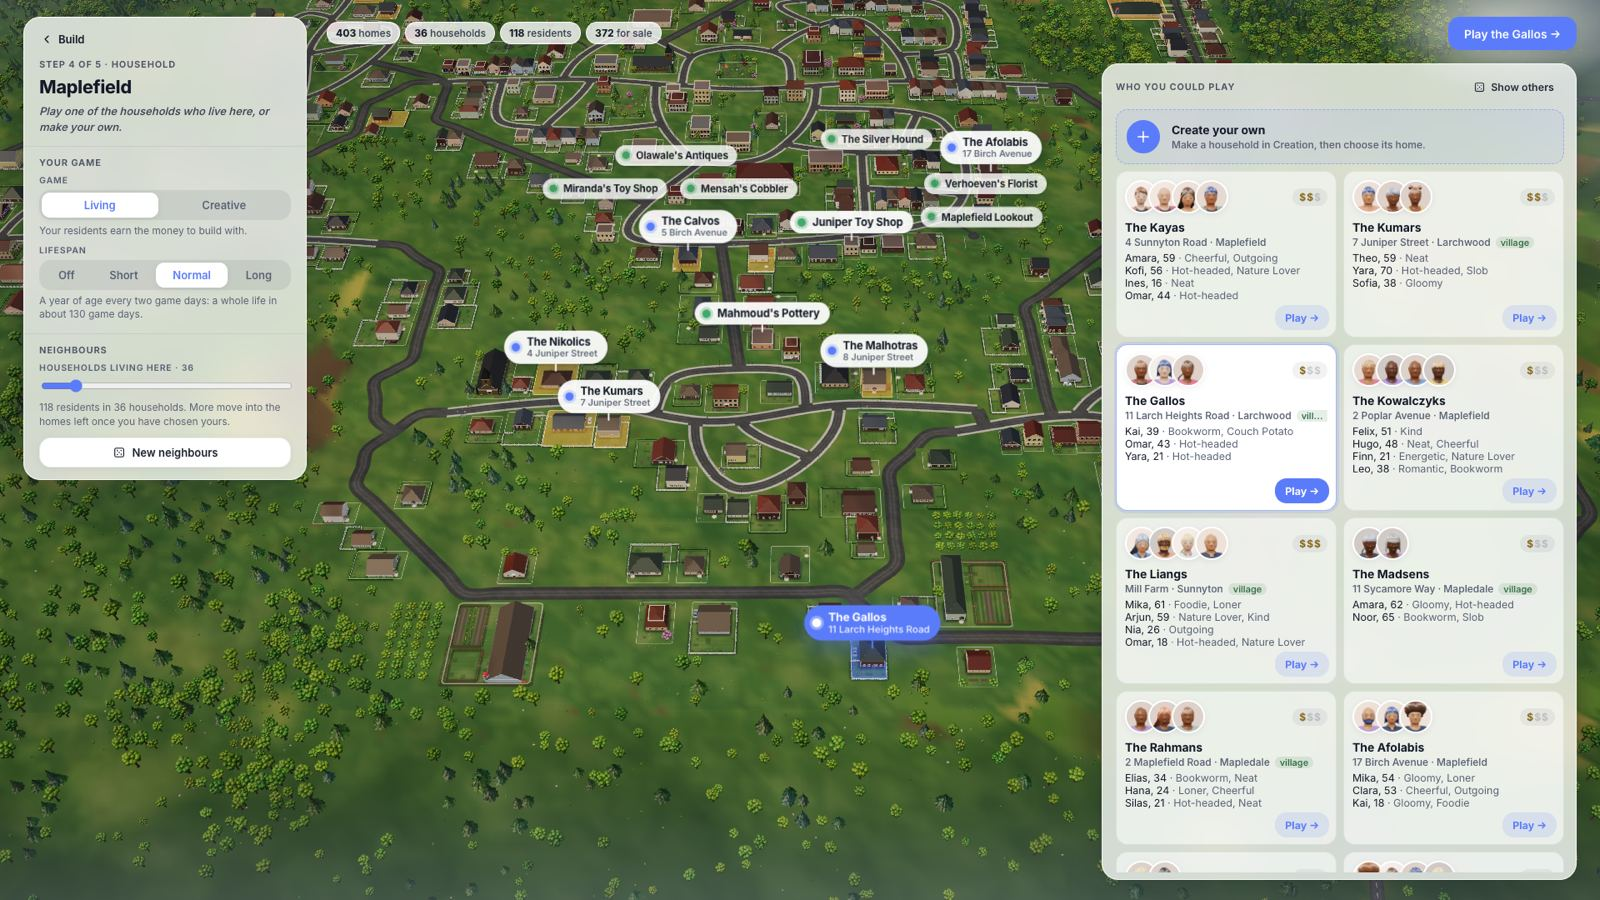
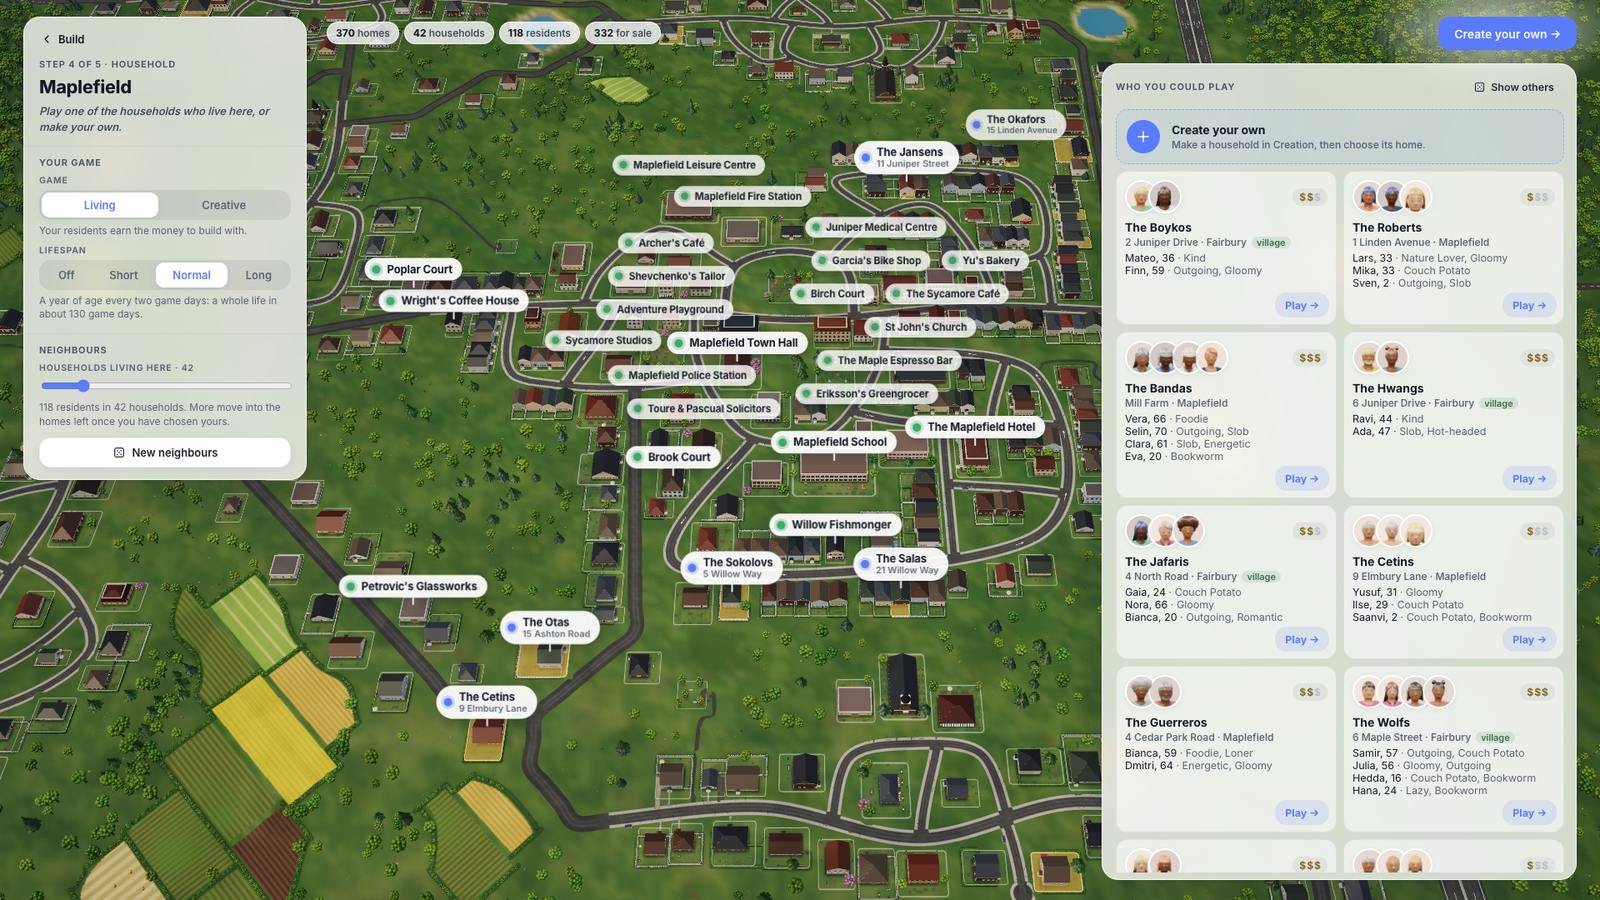
docs(readme): 0.8.4: save format 43 and going back to 0.8.3, failed saves kept, the road kinds in New game, ?debug in dev and bench builds only, the wasm cache's key; screenshots of 0.8.4 (the Wolfs' home by day and night, Build with the catalog, step 4 over Maplefield, Creation's Look tab, the town

diff --git a/README.md b/README.md
@@ -6,7 +6,7 @@ A home-building game with a living town, in the browser: you build and furnish a
 
 ## Screenshots
 
-![A household at home in Live mode on a Saturday morning: the Mulders studying, reading in the rocker and tending the flowers, with the household strip below](docs/screenshots/live.jpg)
+![A household at home in Live mode on a Saturday morning: the Wolfs talking by the dining table, with the household strip below](docs/screenshots/live.jpg)
 
 <table>
 <tr>
@@ -14,12 +14,12 @@ A home-building game with a living town, in the browser: you build and furnish a
 <td width="50%"><img src="docs/screenshots/build.jpg" alt="Build mode with the catalog open"><br><em>Build › Furnish: 608 objects, every one generated in code.</em></td>
 </tr>
 <tr>
-<td><img src="docs/screenshots/neighbourhood.jpg" alt="Step 4 of a new game: the town's households as cards, the chosen one's home lit in the generated town"><br><em>A new game: a generated town and the households who live there.</em></td>
+<td><img src="docs/screenshots/neighbourhood.jpg" alt="Step 4 of a new game: the town's households as cards and as tags on the generated town, among its places, with fields round it"><br><em>A new game: a generated town and the households who live there.</em></td>
 <td><img src="docs/screenshots/creation.jpg" alt="Creating a resident: the Look tab, with face sliders and hair"><br><em>Creation: make your own household, from babies to elders.</em></td>
 </tr>
 <tr>
-<td><img src="docs/screenshots/town.jpg" alt="The town view over a main town: the square and the church, shops with flats over them, terraces and a car park with its bays"><br><em>The town view: every building a home, flats or a place to go, and the whole town keeps living while you look at one home.</em></td>
-<td><img src="docs/screenshots/menu.jpg" alt="The main menu over the last world made, at golden hour"><br><em>The main menu.</em></td>
+<td><img src="docs/screenshots/town.jpg" alt="The town view over a main town: the square with its market and the church, shops with flats over them, terraces, a car park, and fields and the motorway beyond"><br><em>The town view: every building a home, flats or a place to go, and the whole town keeps living while you look at one home.</em></td>
+<td><img src="docs/screenshots/menu.jpg" alt="The main menu over the last world made, at golden hour, the motorway and a farm in front"><br><em>The main menu.</em></td>
 </tr>
 </table>
 
@@ -27,7 +27,7 @@ A home-building game with a living town, in the browser: you build and furnish a
 
 Build a home and watch the people who live in it.
 
-- **Start:** New game goes in five steps: the land (a countryside, a river valley, an island, …, shaped with brushes if you like), its streets and zones, the town built from them, a household (one of the town's own or your own from **Creation**) and the home they move into: a house, or a flat over a shop or in a building of flats.
+- **Start:** New game goes in five steps: the land (a countryside, a river valley, an island, …, shaped with brushes if you like), its streets (lanes, streets, avenues and one-way streets, and a motorway past the town where one fits) and zones, the town built from them, a household (one of the town's own or your own from **Creation**) and the home they move into: a house, or a flat over a shop or in a building of flats.
 - **Live (L):** everyone in town works, makes friends, falls in love and grows older on their own, your household included, and gets about on foot, by bike or e-scooter, in the household's car or on a neighbour's lift, to work and to the town's places (the school, the café, the church and dozens more), each open in its own hours. Click a resident to see their needs and plans and to step in, or a building for its card (whose home it is or what the place is, and who is inside); leave the game alone and the camera follows what happens at home.
 - **Build (B):** time stands still while you furnish (V), build walls, rooms, doors, windows and stairs (C), see how each room is doing (O) and shape the land (G).
 - **A life:** 1000 jobs, 13 skills, a weekly planner (P), rent and bills, a garden to grow, and residents who can speak lines of their own (a voice model and a small language model, both run in the browser).
@@ -84,7 +84,7 @@ The first `bun run dev` or `bun run build` downloads the voice model (398 MB as 
 | `bun run assets` | Build or update the compressed asset copies (the build does this too) |
 | `bun run decoders` | Refresh `public/decoders` (PlayCanvas's Basis Universal transcoder for KTX2 textures) after a PlayCanvas upgrade (`cargo decoders`) |
 
-**The WASM packages are kept between checkouts.** `bun run wasm`, `bun run sound` and `bun run voice:wasm` go through `tools/wasm-cache.sh sim|sound|voice`: a package is kept under `~/.cache/idyll-lives/wasm-pkg/<pkg>/<key>/`, its key a hash of what it is built from (its crates' git trees, the uncommitted changes and untracked files in them, the workspace's `Cargo.toml`, `Cargo.lock`, `.cargo/` and `rust-toolchain.toml`, and the versions of rustc and wasm-bindgen). A worktree whose crates match one built before copies it (0.2 s) instead of building it (the simulation's: 80 s from nothing on an M3 Pro, fat LTO in one unit, so even a small change to sim-core costs most of that); one that doesn't builds it in its own `target/` under the key's lock and keeps it. The newest 12 of each are kept. `LL_WASM_CACHE=0` builds without it, and CI (`$CI` set) does unless `LL_WASM_CACHE=1`.
+**The WASM packages are kept between checkouts.** `bun run wasm`, `bun run sound` and `bun run voice:wasm` go through `tools/wasm-cache.sh sim|sound|voice`: a package is kept under `~/.cache/idyll-lives/wasm-pkg/<pkg>/<key>/`, its key a hash of what it is built from (its crates' git trees, the uncommitted changes and untracked files in them, the workspace's `Cargo.toml`, `Cargo.lock`, `.cargo/` and `rust-toolchain.toml`, the versions of rustc and wasm-bindgen, and the script itself). A worktree whose crates match one built before copies it (0.2 s) instead of building it (the simulation's: 80 s from nothing on an M3 Pro, fat LTO in one unit, so even a small change to sim-core costs most of that); one that doesn't builds it in its own `target/` under the key's lock and keeps it. The newest 12 of each are kept. `LL_WASM_CACHE=0` builds without it, and CI (`$CI` set) does unless `LL_WASM_CACHE=1`.
 
 **sccache for the tests and clippy (local, opt-in).** Cargo's test, clippy and tool builds can share compiled crates between worktrees through sccache (`brew install sccache`), not in `.cargo/config.toml` (the CI runner has none). Its base directories must name every worktree, so a crate's paths are the same in each; the server reads them when it starts:
 
@@ -115,7 +115,7 @@ From the repo root: `cargo fmt --all` (CI checks the code is formatted) and `car
 | `?bench=village` | The rendering benchmark, with `&quality=`, `&hour=`, `&cam=orbit\|wide\|build\|dusk\|mirror\|mirror-still`, `&res=`, `&cap=`, `&diag=` and more (`web/src/debug/benchFlags.ts`) |
 | `?hour=13` | Holds the lighting at that hour |
 | `?diag=…` | A comma list. `noshadows`, `noaa`, `nonature`, `nolamps`, `nomirrors`, `noglass`, `nonight` leave a feature out to measure what it costs; `freeze` stops time for screenshots; `albedo` and `normals` draw every lit surface as its base colour or world normal; `nosims` leaves the residents out; `linear` draws the light without tone mapping, exposure or grading; `shaders` logs every shader and pipeline compiled, with its material and phase |
-| `?debug` | Console helpers: `__controls`, `__world()`, `__sims()` (residents live: where, pose, what they use, needs), `__cars()` (the cars and work taxis as the newest snapshot shows them: where, which way, `kind` 0 a household's, 1 a taxi), `__lights()` (the traffic lights' heads), `__send(command)`, `__addFunds(n)`, `__camera(pose)`, `__showPlot(i)`, `__characters`, `__renderer` (its debug hooks), and `__crash('panic'\|'throw'\|'hang'\|'render')` to see how the game copes with a failure |
+| `?debug` | Dev and bench builds only: console helpers `__controls`, `__world()`, `__sims()` (residents live: where, pose, what they use, needs), `__cars()` (the cars and work taxis as the newest snapshot shows them: where, which way, `kind` 0 a household's, 1 a taxi), `__lights()` (the traffic lights' heads), `__send(command)`, `__addFunds(n)`, `__camera(pose)`, `__showPlot(i)`, `__characters`, `__renderer` (its debug hooks), and `__crash('panic'\|'throw'\|'hang'\|'render')` to see how the game copes with a failure |
 | `?profile` | Logs where start-up and frames spend their time, with a summary once start-up settles (`debug/perf.ts`) |
 | `?seed=42` | The random seed of a new game |
 | `?code=river-mhs-k2x9q` | The world code New game's step 1 opens with (a bare number: the land's seed) |
@@ -221,7 +221,7 @@ Pack authors: see [docs/content-packs.md](docs/content-packs.md).
 
 The current version is **0.8.3**. One version number covers the whole game: `web/package.json` (shown in the main menu and Credits, with the commit it was built from), the Rust workspace in `Cargo.toml` and the workspace crates' entries in `Cargo.lock`. `cargo release-version` prints it and fails if they differ (CI checks this); `cargo release-version 0.3.0` sets all three. Each release is a git tag `vX.Y.Z` with notes in [CHANGELOG.md](CHANGELOG.md).
 
-Saves have their own format version, `SAVE_VERSION` in `crates/sim-core/src/save/mod.rs`: 43 since the road hierarchy, for one-way roads and the avenue, motorway and ramp kinds (42 in 0.8.3, for the real town's flats and marked parking bays; 41, for the household's car that fits its best earner's job; 40, for the speed super speed drops back to; 39 in 0.8.1 and 0.8.2, for the town's backdrop, places and centres (38) and the porches (39); 37 in 0.8.0, for the traffic's own clock; 36 in 0.7.0, for its new clock of 60 ticks a real second and 75 a game minute; 35 in 0.6.0, 33 in 0.5.0 and 0.5.1, 32 in 0.3.1 to 0.4.2, 29 in 0.3.0, 23 in 0.2.0; 0.1.0 wrote 17). No save older than 43 opens (`OLDEST_SAVE_VERSION` in `crates/sim-core/src/save/mod.rs`): it is too old, and removed with a notice, as a damaged one is. Nothing is migrated: until 1.0 a change of format leaves the saves before it behind. A save from a newer version is kept and skipped.
+Saves have their own format version, `SAVE_VERSION` in `crates/sim-core/src/save/mod.rs`: 43 in 0.8.4, for one-way roads and the avenue, motorway and ramp kinds; 42 in 0.8.3, for the real town's flats and marked parking bays; 41, for the household's car that fits its best earner's job; 40, for the speed super speed drops back to; 39 in 0.8.1 and 0.8.2, for the town's backdrop, places and centres (38) and the porches (39); 37 in 0.8.0, for the traffic's own clock; 36 in 0.7.0, for its new clock of 60 ticks a real second and 75 a game minute; 35 in 0.6.0, 33 in 0.5.0 and 0.5.1, 32 in 0.3.1 to 0.4.2, 29 in 0.3.0, 23 in 0.2.0; 0.1.0 wrote 17. No save older than 43 opens (`OLDEST_SAVE_VERSION` in `crates/sim-core/src/save/mod.rs`): it is too old, and removed with a notice, as a damaged one is. Nothing is migrated: until 1.0 a change of format leaves the saves before it behind. A save from a newer version is kept and skipped, and one this version wrote but couldn't open is kept, marked in Load game, where it can be tried again.
 
 **Releasing** (`.github/workflows/pages.yml`):
 1. `cargo release-version <x.y.z>` (it updates `Cargo.lock` too, so no `cargo build` is needed), and a `## <x.y.z> — <date>` section in CHANGELOG.md, with the date set by hand. Commit both on `main`, and `git push origin main`: the dry run builds what GitHub has.
@@ -233,7 +233,7 @@ Saves have their own format version, `SAVE_VERSION` in `crates/sim-core/src/save
    - The large files download in full, which only the live site can show: `llm/lfm2.5-350m/model_q4.onnx_dataz` returns 200 and is 195,523,654 bytes (gunzipped, its SHA-256 is the one in `crates/tools/src/llmfetch.rs`), and `voice/supertonic-3/vector_estimator.onnxz` is 55,258,368 bytes (both packed by the Rust fetch tools; what matters is the unzipped SHA-256).
 5. Publish the release notes: `gh release create v<x.y.z> --verify-tag --title "Idyll Lives <x.y.z>" --notes-file <the version's CHANGELOG section>`.
 
-**If a release goes wrong,** fix forward, or redeploy the last good build (`gh workflow run pages.yml --ref <tag> -f deploy=true`). 0.8.2 can't open 0.8.3's saves (format 42, for the real town's flats and parking bays), so it is one to go back to only with that in mind: it keeps them and lists only the saves it can open (0.8.3 opens none of 0.8.2's: they are too old). 0.8.1 and 0.8.2 share save format 39, so 0.8.1 is a safe build to go back to (with 0.8.2's fix to the shadows on WebGPU undone). 0.8.0 can't open 0.8.1's saves (format 39, for the town's backdrop and the porches), so it is one to go back to only with that in mind: it keeps them and lists only the saves it can open. 0.7.0 can't open 0.8.0's saves (format 37, for the traffic's own clock), so it is one to go back to only with that in mind: it keeps them and lists only the saves it can open. 0.6.0 can't open 0.7.0's saves (format 36, for the new clock), so it is one to go back to only with that in mind: it keeps them and lists only the saves it can open. 0.5.1 can't open 0.6.0's saves (format 35), so it is one to go back to only with that in mind; 0.5.0 and 0.5.1 share save format 33, so 0.5.0 is a safe build to go back to; 0.4.2 can't open format 33, so it is one to go back to only with that in mind (0.3.1 to 0.4.2 share format 32); 0.3.0 can't open 0.3.1's saves (format 32), 0.2.0 can't open 0.3.0's (format 29), and v0.1.0 can't open 0.2.0's database (version 2): an older build keeps the newer saves and skips them, so it lists only the saves it can open. Nothing is lost; the saves come back with the newer build.
+**If a release goes wrong,** fix forward, or redeploy the last good build (`gh workflow run pages.yml --ref <tag> -f deploy=true`). 0.8.3 can't open 0.8.4's saves (format 43, for the roads' kinds), so it is one to go back to only with that in mind: it keeps them and lists only the saves it can open (0.8.4 opens none of 0.8.3's: they are too old, and removed with a notice). 0.8.2 can't open 0.8.3's saves (format 42, for the real town's flats and parking bays), so it is one to go back to only with that in mind: it keeps them and lists only the saves it can open (0.8.3 opens none of 0.8.2's: they are too old). 0.8.1 and 0.8.2 share save format 39, so 0.8.1 is a safe build to go back to (with 0.8.2's fix to the shadows on WebGPU undone). 0.8.0 can't open 0.8.1's saves (format 39, for the town's backdrop and the porches), so it is one to go back to only with that in mind: it keeps them and lists only the saves it can open. 0.7.0 can't open 0.8.0's saves (format 37, for the traffic's own clock), so it is one to go back to only with that in mind: it keeps them and lists only the saves it can open. 0.6.0 can't open 0.7.0's saves (format 36, for the new clock), so it is one to go back to only with that in mind: it keeps them and lists only the saves it can open. 0.5.1 can't open 0.6.0's saves (format 35), so it is one to go back to only with that in mind; 0.5.0 and 0.5.1 share save format 33, so 0.5.0 is a safe build to go back to; 0.4.2 can't open format 33, so it is one to go back to only with that in mind (0.3.1 to 0.4.2 share format 32); 0.3.0 can't open 0.3.1's saves (format 32), 0.2.0 can't open 0.3.0's (format 29), and v0.1.0 can't open 0.2.0's database (version 2): an older build keeps the newer saves and skips them, so it lists only the saves it can open. Nothing is lost; the saves come back with the newer build.
 
 Each CI run keeps the site's WASM with function names as an artifact for 90 days (`wasm-with-names-<sha>`). It runs the same optimisations as the site with the name section kept, so its function numbers match the shipped WASM and a crash stack from the site can be read with it.
 
